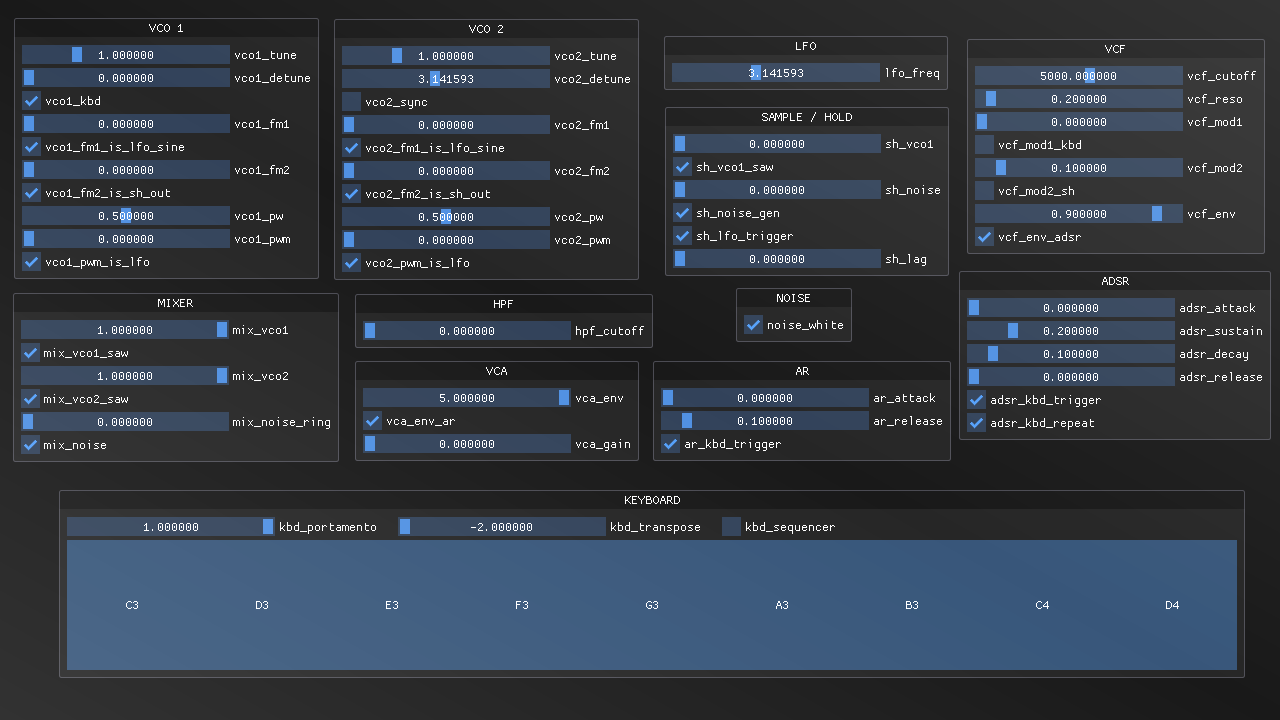
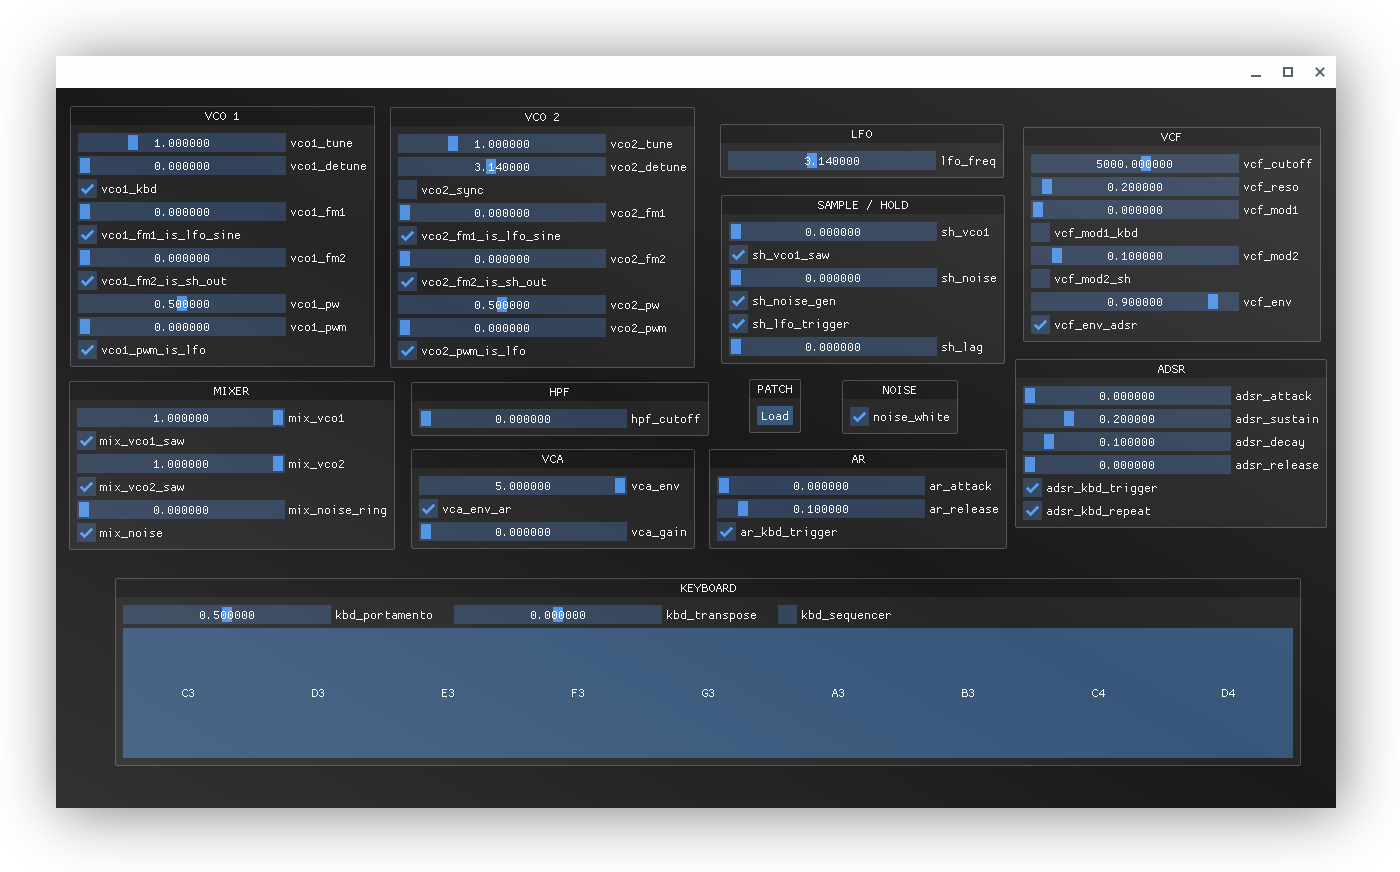
patch load button

diff --git a/ui.cpp b/ui.cpp
@@ -145,10 +145,8 @@ void keyboard() {
     }
 }
 
-void render() {
-    static bool is_init = false;
-    if (!is_init) {
-        is_init = true;
+void patch() {
+    if (ImGui::Button("Load")) {
         kbd_portamento = 0.5;
         ar_release = 0.1;
         adsr_decay = 0.1;
@@ -166,7 +164,9 @@ void render() {
         vcf_env = 0.9;
         vca_env = 5;
     }
+}
 
+void render() {
     static const auto window_flags =
         ImGuiWindowFlags_NoResize |
         ImGuiWindowFlags_NoMove |
@@ -271,5 +271,9 @@ void render() {
     ImGui::SameLine(0, ImGui::GetStyle().IndentSpacing);
     toggle("kbd_sequencer", &kbd_sequencer);
     keyboard();
+    ImGui::End();
+
+    ImGui::Begin("PATCH", NULL, window_flags);
+    patch();
     ImGui::End();
 }

diff --git a/kbd.cpp b/kbd.cpp
@@ -14,7 +14,7 @@ float
 kbd_portamento = 0,
 kbd_transpose = 0;
 bool
-kbd_sequencer = true;
+kbd_sequencer = false;
 
 // internal
 float
